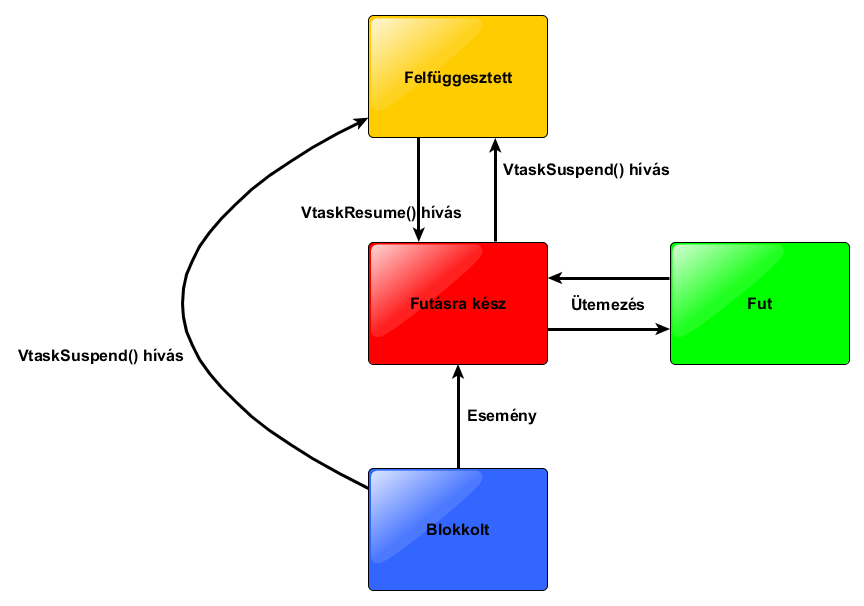
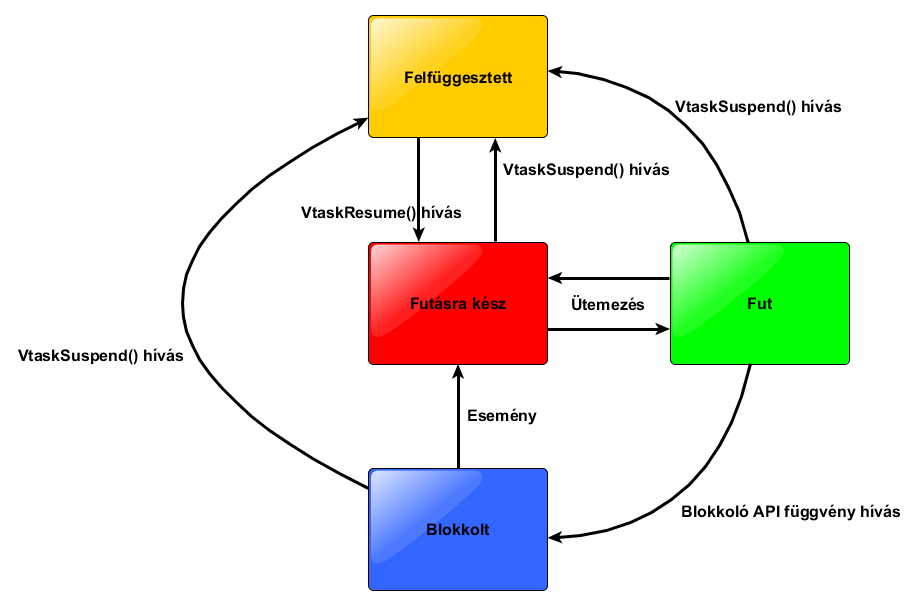
FreeRTOS scheduling in progress

diff --git a/Documents/Jegyzetek/FreeRTOS.md b/Documents/Jegyzetek/FreeRTOS.md
@@ -10,20 +10,58 @@ A rendszer módosított GPLv2 licencet használ. A licencmódosítás lehetővé
 
 ## Taszkok
 
-
-
-A FreeRTOS nem korlátozza a létrehozható taszkok számát, amíg a rendelkezésre álló memória lehetővé teszi azok futtatását. A rendszer lehetőséget biztost ciklikus és nem ciklikus taszkok futtatására egyaránt. 
+A FreeRTOS nem korlátozza a létrehozható taszkok és prioritások számát, amíg a rendelkezésre álló memória lehetővé teszi azok futtatását. A rendszer lehetőséget biztost ciklikus és nem ciklikus taszkok futtatására egyaránt. 
 
 A beágyazott rendszerek döntő része egymagos processzorokat használ, amiből az következik, hogy egyszerre csak egy taszk futhat. A taszkok eszerint két nagy csoportba oszthatóak: éppen futó taszk (___Fut___ állapot), illetve az összes többi (___Nem fut___ állapot).
 
 ![freertos_states](https://github.com/Lyque/diplomaterv/raw/FreeRTOS_notes/Documents/Jegyzetek/Figures/FreeRTOS/01_FreeRTOS_states.png "FreeRTOS states simplified")
 
 Annak, hogy egy taszk éppen miért nem fut, több oka lehet. Ez alapján a __Nem fut__ állapot több állapotra felosztható.
+Ha egy taszk képes lenne futni, de például egy nagyobb prioritású taszk birtokolja a processzort, akkor a taszk állapota ___Futásra kész___. Ha a taszk valamilyen eseményre vár (időzítés, másik taszk szinkronizáló jele), akkor a taszk ___Blokkolt___ állapotban van. Az operációs rendszer lehetőséget ad arra, hogy a taszkokat függvényhívással ___Felfüggesztett___ állapotba kényszerítsük. Ekkor egy másik függvényhívással tudjuk visszahozni az ütemezendő feladatok sorába a taszkot.
 
-
+A taszkok önként lemondhatnak a futásról (időzítés, szinkronizáció, taskYIELD() függvény hívása), viszont futó állapotba csak az ütemező helyezheti.
 
 ![freertos_states_expanded](https://github.com/Lyque/diplomaterv/raw/FreeRTOS_notes/Documents/Jegyzetek/Figures/FreeRTOS/02_FreeRTOS_states_expanded.png "FreeRTOS states expanded")
 
 
+### Idle taszk
 
-##
+A processzor működése közben mindig utasításokat kell futtatnia, ezért legalább egy taszknak Futásra kész állapotban kell lennie. Hogy ez biztosítva legyen, az ütemező indulásakor automatikusan létrejön egy ciklikus ___Idle taszk___.
+
+Az Idle taszk a legkisebb prioritással rendelkezik, így biztosítva, hogy elhagyja a Fut állapotot, amint egy magasabb prioritású taszk Futásra kész állapotba kerül.
+
+Taszk törlése esetén az Idle taszk végzi el a különböző erőforrások felszabadítását. Mivel a FreeRTOS nem biztosít védelmet egy taszk _kiéheztetésével_ szemben ezért fontos, hogy az alkalmazás tervezésekor biztosítsunk olyan időszeletet, amikor másik, nagyobb prioritású taszk nem fut. 
+
+
+#### Idle hook függvény
+
+Előfordulhat, hogy az alkalmazásunkban olyan funkciót szeretnénk megvalósítani, amelyet az Idle taszk minden egyes iterációjára le kell futtatni (például teljesítménymérés érdekében). Ezt a célt szolgálja az ___Idle hook__ függvény, ami az Idle taszk minden lefutásakor meghívódik. 
+
+Az Idle hook általános felhasználása:
+- Alacsony prioritású háttér-, vagy folyamatos feldolgozás,
+- A szabad processzoridő mérése (teljesítménymérés),
+- Processzor alacsony fogyasztású üzemmódba váltása.
+
+
+##### Korlátozások az Idle hook függvénnyel kapcsolatban
+
+1. Az Idle hook függvény nem hívhat blokkoló vagy felfüggesztést indító függvényeket[lábjegyzet->A hook függvény blokkolása esetén felléphet az az eset, hogy nincs Futásra kész állapotban levő taszk],
+2. Ha az alkalmazás valahol töröl egy taszkot, akkor az Idle hook függvénynek elfogadható időn belül vissza kell térnie. [lábjegyzet->Az Idle taszk felelős a kernel erőforrások felszabadításáért, ha egy taszk törlésre kerül. Ha az Idle taszk bentragad az Idle hook-ban, akkor ez a tisztítás nem tud bekövetkezni.]
+
+
+## Ütemező
+
+A FreeRTOS által használt ütemezési mechanizmust Fix Prioritásos Preemptív Ütemezésnek hívjuk[lábjegyzet->A FreeRTOS kooperatív ütemezést is támogat, viszont a valós idejű futás eléréséhez a preemptív ütemezés szükséges, ezért a továbbiakban csak a preemptív ütemezéssel foglalkozunk.]. _Fix prioritásos_, mivel a rendszer magától nem változtatja a prioritásokat, _preemptív_, mert egy taszk Futásra kész állapotba lépésekor preemtálja az éppen futó taszkot, ha a futó taszk prioritása alacsonyabb.
+
+A taszkok lehetne Blokkolt állapotba, ahonnan egy esemény bekövetkezését követően automatikusan Futásra kész állapotba kerülnek. 
+
+Időbeli események azok, amik egy bizonyos időpillanatban következnek be (például egy kéleltetési idő letelik). Az időbeli eseményeket kihasználva lehetőség nyílik periodikus futtatásra, vagy időtúllépés detektálására. 
+
+Szinkronizáló események azok, amikor egy taszk vagy megszakításkezelő rutin jelzést küld valamilyen kommunikációs struktúrán keresztül egy másik taszknak. Tipikusan aszinkron jelzésre használjuk, mint például adat érkezését egy periférián keresztül.
+
+
+### Taszkok prioritásának meghatározása
+
+Ökölszabályként alkalmazható, hogy a hard real-time funkciókat magasabb prioritással látjuk el, mint a soft real-time funkciókat.
+
+Rate Monotonic Scheduling (Gyakoriság Monoton Ütemezés) az a gyakran alkalmazott prioritás-hozzárendelés, amikor minden taszkhoz egyedi prioritásszintet rendelünk a végrehajtási gyakoriság függvényében. A gyakrabban lefutó folyamatokhoz magasabb, a ritkábban lefutó folyamatokhoz alacsonyabb prioritást állítunk be.
